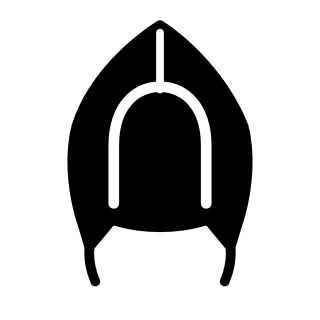
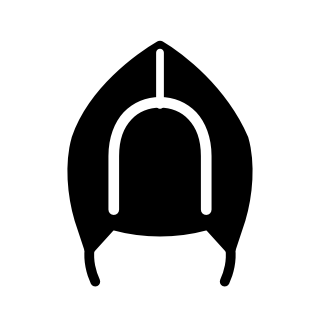
Werewolf card: both forms' pictures and a grey Human moves / Wolf moves button that switches only the mini board and legend; legend says just "Jumps here"; Man and human Werewolf a little shorter, the white Werewolf's fur joins its coif with no line; moon-crater style for ability colours (not used y

diff --git a/art/source/piece_options/make_final_ghost_bard_werewolf.py b/art/source/piece_options/make_final_ghost_bard_werewolf.py
@@ -8,6 +8,7 @@ Run from this folder:  python make_final_ghost_bard_werewolf.py
 """
 import io
 import math
+import re
 import os
 import sys
 
@@ -42,12 +43,34 @@ JELLYBEAN = "M 0,-3 C 1.7,-3 2.1,-1.4 1.6,0 C 1.2,1.2 1.9,2.6 0.4,3.05 C -1.5,3.
 
 
 # --- The coif: the Man, and the Werewolf's human form ------------------------------------
-def coif(team, behind=""):
+# The coif squashed a tad from top to bottom (Mac, Oct 2026), its bottom (the
+# ties' ends) staying put.
+SQUASH, SQUASH_BASE = 0.92, 39.6
+
+
+def squashed(svg):
+    """`svg` with every point in its paths moved towards the bottom; line widths
+    stay as they are."""
+    def path(m):
+        points = re.sub(r"(-?[0-9.]+),(-?[0-9.]+)",
+                        lambda p: "%s,%.2f" % (p.group(1), SQUASH_BASE - (SQUASH_BASE - float(p.group(2))) * SQUASH),
+                        m.group(1))
+        return 'd="%s"' % points
+    return re.sub(r'd="([^"]*)"', path, svg)
+
+
+def coif(team, behind="", fur=()):
     """The Man's linen coif (Mac, Oct 2026): on the white one, no line round the
     opening, the centre seam running down to the opening; on the black one, a
-    Cburnett-thick white line round the opening and black ties."""
+    Cburnett-thick white line round the opening and black ties. `fur`: tufts
+    (paths) on its sides that join it with no line between them (Mac), as on
+    the black one: drawn with a double-width outline under the coif, then filled
+    again over it, so only their outside edge shows."""
     fill, line = colours(team)
-    out = behind + shape(r22.COIF_FACE, fill) + shape(r22.COIF, fill)
+    out = behind + shape(r22.COIF_FACE, fill)
+    out += "".join('<path fill="%s" stroke="#000" stroke-width="3" d="%s"/>' % (fill, d) for d in fur)
+    out += shape(r22.COIF, fill)
+    out += "".join('<path fill="%s" stroke="none" d="%s"/>' % (fill, d) for d in fur)
     if team == "white":
         out += detail("M 22.5,4.6 L 22.5,14.2", "#000", 1.1)
         out += detail(r22.COIF_TIES, "#000", 1.4)
@@ -59,15 +82,15 @@ def coif(team, behind=""):
 
 
 def man(team):
-    return coif(team)
+    return squashed(coif(team))
 
 
 # --- Werewolf: the coif with ears and three tufts of fur a side --------------------------
 def werewolf(team):
     fill, line = colours(team)
     left = [(12.4, 12.6), (7.8, 15.4), (10.6, 18.5), (6.6, 21.6), (10.2, 24.7), (7.6, 27.8), (11.6, 30.6)]
-    fur = shape(r22.poly(left), fill) + shape(r22.poly(r22.mirror_points(left)), fill)
-    return coif(team, fur + r23.ears(team))
+    fur = (r22.poly(left), r22.poly(r22.mirror_points(left)))
+    return squashed(coif(team, r23.ears(team), fur))
 
 
 # --- The wolf: round 22's maned wolf, with three of its six spikes ------------------------

diff --git a/tools/make_piece_tres.py b/tools/make_piece_tres.py
@@ -64,12 +64,14 @@ PIECES = {
         (DIAG, 1, 0, {}),
         ([(0, 1)], 1, 0, {}),
     ], ability=5, ability_name="Full Moon", colors=["#789EFF", "#283199"], transforms_into="forms/werewolf_wolf",
-        ability_text="Once per game: the Werewolf turns into a wolf for the rest of the game (press After Full Moon to see how the wolf moves). Uses your turn."),
+        extra={"form_name": '"Human"'},
+        ability_text="Once per game: the Werewolf turns into a wolf for the rest of the game (press Wolf moves to see how the wolf moves). Uses your turn."),
     # The Werewolf after Full Moon. Kept in forms/ so the army builder doesn't offer it.
     "werewolf_wolf": dict(name="Werewolf", symbol="WF", value=3, path="forms/werewolf_wolf", rules=[
         ([(1, 0), (-1, 0), (0, -1)], 1, 0, {}),
         ([(1, 1), (-1, 1), (0, 1)], 2, 0, {}),
-    ], special_rule="A Werewolf that has used its Full Moon: a wolf for the rest of the game."),
+    ], extra={"form_name": '"Wolf"'},
+        special_rule="A Werewolf that has used its Full Moon: a wolf for the rest of the game."),
 }
 
 

diff --git a/CLAUDE.md b/CLAUDE.md
@@ -89,7 +89,7 @@ Everything in the rules engine should be built so standard chess is just one con
 * Sharing armies (Mac's design, Oct 2026): `res://scenes/armies/army_share.gd` (`ArmyShare`). "Share" beside Save in the army builder (legal, named armies only) uploads the army (SavedGame.army_to_dict) to the `shared_armies` table under a 5-letter code (same letters as game codes) and shows it with Copy code; "Import army" beside New army in My armies asks for a code (`ModalPanel` pop-up, `res://scenes/common/modal_panel.gd`), downloads it, checks it's legal and known pieces, renames on a clash ("Name (2)") and saves it (10-army limit applies). Backends: `insert_shared_army` / `fetch_shared_army`. Needs `server/supabase_update_2.sql` run in Supabase.
 * `res://core/army_library.gd` — `ArmyLibrary`: saves armies as .tres in `user://armies/` (max 10), armies() loads fresh copies sorted by name, save() overwrites an army's own file or makes a new one, delete(). Tests use their own folder (`user://test_armies/`).
 * `res://scenes/common/piece_art.gd` — `PieceArt.texture_for(def, team)`: shared piece-image lookup.
-* Piece card (Mac's design): `res://core/piece_guide.gd` (`PieceGuide.guide(def)` -> squares (offset -> MOVE/CAPTURE/FIRST_MOVE/JUMP flags), slides (direction + flags), radius (min 2 = 5x5)). `res://scenes/common/piece_card.tscn` + `piece_card.gd` (`PieceCard`): header with the normal + alternate pictures (`PieceArt.all_textures`), name, cost then the types in italics (no army limit; Open Sans Italic at weight 600 from `res://art/fonts/OpenSans-Italic.ttf` (SIL OFL 1.1, license in `art/fonts/OFL.txt`, included in the web export, credited on the main menu); slanting the normal font jiggles, so don't); `PieceGuideBoard` mini board (filled circle = move or capture, empty circle = move only, red X = capture only, pale = first move only, yellow circle = jump, arrow line = slide, dashed arrow = slide without capturing) with a legend; keyword boxes in capitals (JUMP yellow-orange, CASTLE grey, PROMOTE purple, SHIELD light blue); hovering a type or keyword (tapping, on phones) shows a short explanation bubble (`PieceCard.EXPLANATIONS`); a "Special" section only for rules the rest can't show (the cannon's hopping capture). Army builder tray: alphabetical (Mac's call), inside a ScrollContainer; tray buttons pass drags through (MOUSE_FILTER_PASS) so the list scrolls from on top of a button, and a press that became a scroll doesn't select; the card is fixed at the tallest piece's height (`PieceCard.tallest_height`, measured off-screen; also used for the in-game `PieceInfo` pop-up via `PieceInfo.prepare`); on tall screens the card always shows whole and the tray scrolls (`_fit_card`); tray buttons show only the picture and the cost on a small dark badge in the bottom-right corner (`CostBadge`, plain dark, drawn so the digits are centred). Kings have no badge; their box is the only one with a border (`res://scenes/armies/king_frame.gd`, `KingFrame`): plain white when viewing White, plain black when viewing Black (Mac tried a swirled band first) (Mac tried coloured boxes and coloured badges first). Pieces can be dragged from the tray onto the board (`ArmyBoard._drop_data` -> `drop_piece`; on touch screens a drag needs a 250 ms hold first, since dragging scrolls the tray), and right-clicking a placed piece (PC) removes it (`remove_at`) (no "pts", no "left": Mac's call), faded when none can be added, and the piece name while it has no art; the card starts on the King. `PieceCard.set_zoom(z)` scales the whole card; the army builder uses 0.95 (tall; Mac tried 0.85 and 1.25 and wants two whole tray rows visible; tray buttons get shorter, down to 3:4, so two rows fit above the card) / 1.5 (wide), and its tray buttons share the column width (100-170, text clipped; measured from the screen to avoid feedback). In games it's a pop-up (`PieceInfo`): hold a piece 450 ms on touch screens, right-click it with a mouse (Mac's call; holding the mouse button does nothing); the game's tip text matches the device; in the army builder it's always shown under the tray and follows the last piece tapped. The builder's top bar has a White/Black button that recolours tray, board and card.
+* Piece card (Mac's design): `res://core/piece_guide.gd` (`PieceGuide.guide(def)` -> squares (offset -> MOVE/CAPTURE/FIRST_MOVE/JUMP flags), slides (direction + flags), radius (min 2 = 5x5)). `res://scenes/common/piece_card.tscn` + `piece_card.gd` (`PieceCard`): header with the normal + alternate pictures (`PieceArt.all_textures`), name, cost then the types in italics (no army limit; Open Sans Italic at weight 600 from `res://art/fonts/OpenSans-Italic.ttf` (SIL OFL 1.1, license in `art/fonts/OFL.txt`, included in the web export, credited on the main menu); slanting the normal font jiggles, so don't); `PieceGuideBoard` mini board (filled circle = move or capture, empty circle = move only, red X = capture only, pale = first move only, yellow circle = jump ("Jumps here", Mac), arrow line = slide, dashed arrow = slide without capturing) with a legend; keyword boxes in capitals (JUMP yellow-orange, CASTLE grey, PROMOTE purple, SHIELD light blue); hovering a type or keyword (tapping, on phones) shows a short explanation bubble (`PieceCard.EXPLANATIONS`); a "Special" section only for rules the rest can't show (the cannon's hopping capture). Army builder tray: alphabetical (Mac's call), inside a ScrollContainer; tray buttons pass drags through (MOUSE_FILTER_PASS) so the list scrolls from on top of a button, and a press that became a scroll doesn't select; the card is fixed at the tallest piece's height (`PieceCard.tallest_height`, measured off-screen; also used for the in-game `PieceInfo` pop-up via `PieceInfo.prepare`); on tall screens the card always shows whole and the tray scrolls (`_fit_card`); tray buttons show only the picture and the cost on a small dark badge in the bottom-right corner (`CostBadge`, plain dark, drawn so the digits are centred). Kings have no badge; their box is the only one with a border (`res://scenes/armies/king_frame.gd`, `KingFrame`): plain white when viewing White, plain black when viewing Black (Mac tried a swirled band first) (Mac tried coloured boxes and coloured badges first). Pieces can be dragged from the tray onto the board (`ArmyBoard._drop_data` -> `drop_piece`; on touch screens a drag needs a 250 ms hold first, since dragging scrolls the tray), and right-clicking a placed piece (PC) removes it (`remove_at`) (no "pts", no "left": Mac's call), faded when none can be added, and the piece name while it has no art; the card starts on the King. `PieceCard.set_zoom(z)` scales the whole card; the army builder uses 0.95 (tall; Mac tried 0.85 and 1.25 and wants two whole tray rows visible; tray buttons get shorter, down to 3:4, so two rows fit above the card) / 1.5 (wide), and its tray buttons share the column width (100-170, text clipped; measured from the screen to avoid feedback). In games it's a pop-up (`PieceInfo`): hold a piece 450 ms on touch screens, right-click it with a mouse (Mac's call; holding the mouse button does nothing); the game's tip text matches the device; in the army builder it's always shown under the tray and follows the last piece tapped. The builder's top bar has a White/Black button that recolours tray, board and card.
 * Practice bot: `res://core/practice_bot.gd` (`PracticeBot.new(level)`, `choose_move(state)`): iterative-deepening alpha-beta (negamax) with capture-only quiescence, pseudo-legal moves checked for legality as it goes, a time limit, and an evaluation (Mac's heuristics): material (point costs, +half for an unbroken shield) dominates; control = squares a piece reaches from its square on an empty board (`PracticeBot.reach`, cached) + a development bonus off the back row; pawn-like pieces gain as they advance (more in the centre files); king safety (back row, corner, own pieces in front) while the opponent has 10+ points of non-pawn pieces; a small penalty for being in check. Tactics (forks, pins, skewers, discovered attacks, removing defenders, trapped pieces) come from search depth, not separate rules — more depth needs a faster engine. Levels (Mac's names): Easy (depth 1, lots of score noise), Medium (depth 2, a little noise), Hard (up to depth 4 in ~1.5 s). Killer-move ordering. Speed work (piece lists, attack tables, fewer allocations, captures-only generation, killers) roughly doubled positions/s (~2,300 -> ~4,500 on PC) and perft got ~1.8x faster; Hard now finishes depth 4 in the opening and endgames, 3 in busy middlegames (cap 6, time 1.5 s). Next speed ideas if needed: a transposition table, incremental evaluation. Match setup: Opponent = Two players / Practice bot; with the bot, Difficulty and You play = White / Black / Random (Mac's design), then "Your army" / "Bot's army". In bot games the game screen blocks input and shows "Bot is thinking..." (the bot runs on the main thread after a 2-frame wait, so the screen pauses briefly), and Undo takes back your move and the bot's reply.
 * `res://scenes/theme.tres` — project theme (default font size 30), set in Project Settings > GUI > Theme.
 * `res://scenes/game/game.tscn` + `game.gd` — the game screen (pass-and-play): status line, board, move list, Undo / Redo / Menu / New game buttons (Redo replays moves Undo took back, both of yours and the bot's against the bot; a new move clears them; New game asks "Are you sure?" once moves have been played: `ask_new_game`), promotion picker overlay. Plays two armies if `white_army`/`black_army` are set (New game replays them), else `start_fen`, else standard. Menu only shows when the main scene listens for `menu_requested`.
@@ -137,10 +137,10 @@ Built on a local branch until Mac approved them all; merged into main and releas
 
 * Movement only: Princess (PR, 7, queen lines up to 4), Galleon (GA, 4.5, moves like a queen, captures 1 diagonally or sideways), Catapult (CT, 3, Jump; king steps move only, captures exactly 2 away in 8 directions over anything), Assassin (AS, 2; up to 2 forward or 1 diagonally forward, move only; captures the 3 squares behind).
 * Special rules: Parapet (PA, 3, Castle; sideways slide + diagonal step; `blocks_jumps`: the OPPONENT's pieces can't leap over it (Mac, Oct 2026: its own side's can; `MoveGenerator.stops_jumps`), Knights count as 2 straight then 1, and it's no screen for the opponent's Cannons), Vampire (V, 4; sideways/back slides, diagonal forward step; `shield_on_capture`, FEN `+`, small blue shield drawn on its square), Squire (SQ, 3; 2 straight or 1 diagonal; `protects ["knight"]`: Knights it could reach can't be captured), Jester (J, 4; moves 2, captures 1, any direction; `decoy`: takes the hit for a non-pawn piece it could reach, swapping places).
-* Abilities (once per game, uses the turn): Ghost (G, 3, diagonal step or 1 forward; HAUNT, pale blue -> icy white: once captured, on a later turn it comes back on ANY empty square; button shows with nothing selected; no rings, the captured Ghost glows in the captures row (`CapturedRow.haunting`) while choosing; can give check). Bard (BD, 3.5, up to 4 diagonally; SONG_OF_SLUMBER, gold -> amber: an enemy piece it could capture (not a king) can't move on the next turn; `GameState.frozen_piece()` = last move's `frozen`; "Zz" on it; a sleeping piece doesn't give check (lifted off the board in the legality check), so singing to a checking piece answers check). Werewolf (WW, 3, as the Ghost; FULL_MOON, moonlit blue -> midnight blue (Mac, Oct 2026: the white -> silver glow didn't show on the board): becomes `transforms_into` = `res://data/pieces/forms/werewolf_wolf.tres` (WF; 1 sideways or back, up to 2 forward or diagonally forward, blocked) for good; `Piece.base_def` / `starting_def()` so Raise Dead brings back a Werewolf; the piece card has an "After Full Moon" / "Before Full Moon" button (`PieceCard.turn_over`)).
+* Abilities (once per game, uses the turn): Ghost (G, 3, diagonal step or 1 forward; HAUNT, pale blue -> icy white: once captured, on a later turn it comes back on ANY empty square; button shows with nothing selected; no rings, the captured Ghost glows in the captures row (`CapturedRow.haunting`) while choosing; can give check). Bard (BD, 3.5, up to 4 diagonally; SONG_OF_SLUMBER, gold -> amber: an enemy piece it could capture (not a king) can't move on the next turn; `GameState.frozen_piece()` = last move's `frozen`; "Zz" on it; a sleeping piece doesn't give check (lifted off the board in the legality check), so singing to a checking piece answers check). Werewolf (WW, 3, as the Ghost; FULL_MOON, moonlit blue -> midnight blue (Mac, Oct 2026: the white -> silver glow didn't show on the board): becomes `transforms_into` = `res://data/pieces/forms/werewolf_wolf.tres` (WF; 1 sideways or back, up to 2 forward or diagonally forward, blocked) for good; `Piece.base_def` / `starting_def()` so Raise Dead brings back a Werewolf; the piece card shows both forms' pictures (like the Paladin) and a grey "Wolf moves" / "Human moves" button (`PieceCard.turn_over`, names the moves it switches to, from `PieceDef.form_name`) that switches only the mini board and legend (`PieceCard.moves_def`); the rest of the card (Special Ability) stays (Mac, Oct 2026)). Moon craters (`PieceDef.ability_craters`): dark specks on the ability's `GradientStyleBox` (button, card box; kept to its edges, clear of the writing) and a wider glow on the board with specks in it (`BoardView.crater_specks`); built for Mac to compare with the white -> silver Full Moon colours, not switched on for any piece yet.
 * Sounds: LULLABY and HAUNT made in code; HOWL = `res://audio/sfx/wolf_howl.wav`, cut from a public-domain U.S. Fish and Wildlife Service recording (Wikimedia Commons "Wolf howls.ogg", licence note beside it). `GameSounds.recording()` loads .ogg or .wav.
-* Art tweaks (Mac, Oct 2026): Archer drawn at 92%; Assassin daggers without the blade line, thicker grips; Cannon with the Chariot's wheel (`make_final_cannon.py`); Catapult wheels without inner circles; Galleon with its gun ports, the black one's mast all black (no white lines); Ghost and Vampire lines 1.5/1.4 thick; Jester on the Cburnett king's base; Rogue's hood 3 shorter; the Man's coif (now drawn in `make_final_ghost_bard_werewolf.py`, shared with the human Werewolf): white without the line round the opening (seam down to it), black with a thicker white line there and black ties; wolf's head 10% bigger and back bowed out; Princess's crown 15% taller.
-* Art (final, `art/source/piece_options/make_final_*.py`): Princess crown, Galleon, Catapult, Assassin daggers, Parapet wall, Vampire bat, Squire saddle, Jester cap, Ghost (bedsheet ghost with sad jellybean eyes dented on the outside, no brows), Bard (lyre, evenly spaced strings), Werewolf (the Man's coif with wolf ears and three fur tufts a side), wolf (round 22 maned wolf keeping spikes 2, 4 and 6 of its six, no ear lines, top tooth only). All in `make_final_ghost_bard_werewolf.py` for the last batch.
+* Art tweaks (Mac, Oct 2026): Archer drawn at 92%; Assassin daggers without the blade line, thicker grips; Cannon with the Chariot's wheel (`make_final_cannon.py`); Catapult wheels without inner circles; Galleon with its gun ports, the black one's mast all black (no white lines); Ghost and Vampire lines 1.5/1.4 thick; Jester on the Cburnett king's base; Rogue's hood 3 shorter; the Man's coif (now drawn in `make_final_ghost_bard_werewolf.py`, shared with the human Werewolf): white without the line round the opening (seam down to it), black with a thicker white line there and black ties; wolf's head 10% bigger and back bowed out; the Man and the human Werewolf squashed to 92% height, bottoms fixed (`squashed()`); Princess's crown 15% taller.
+* Art (final, `art/source/piece_options/make_final_*.py`): Princess crown, Galleon, Catapult, Assassin daggers, Parapet wall, Vampire bat, Squire saddle, Jester cap, Ghost (bedsheet ghost with sad jellybean eyes dented on the outside, no brows), Bard (lyre, evenly spaced strings), Werewolf (the Man's coif with wolf ears and three fur tufts a side; on the white one the tufts join the coif with no line, like the black one's), wolf (round 22 maned wolf keeping spikes 2, 4 and 6 of its six, no ear lines, top tooth only). All in `make_final_ghost_bard_werewolf.py` for the last batch.
 
 ## Open questions for Mac (noted, to decide later)
 
